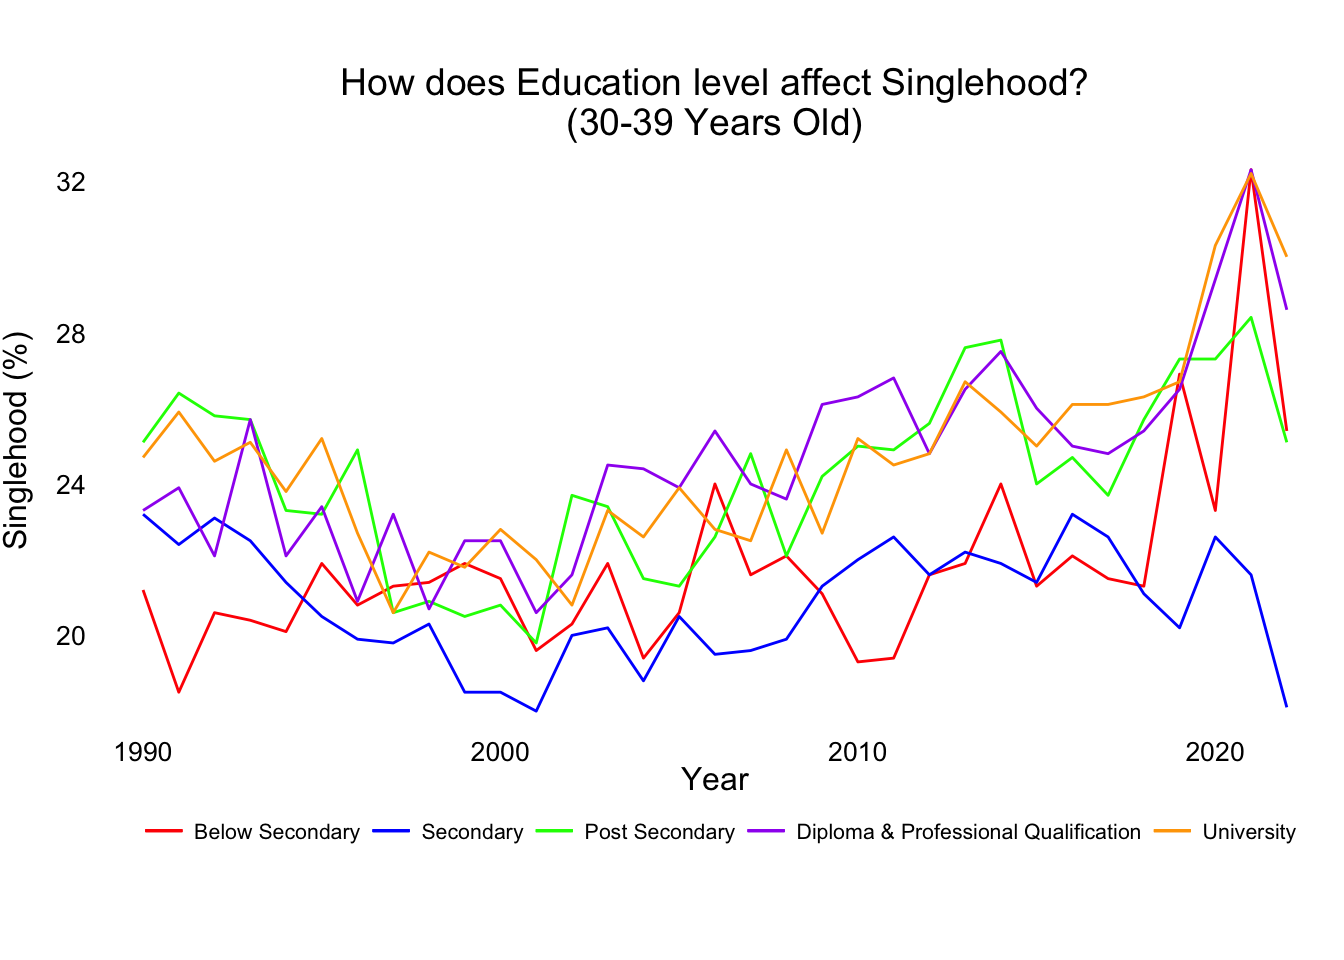
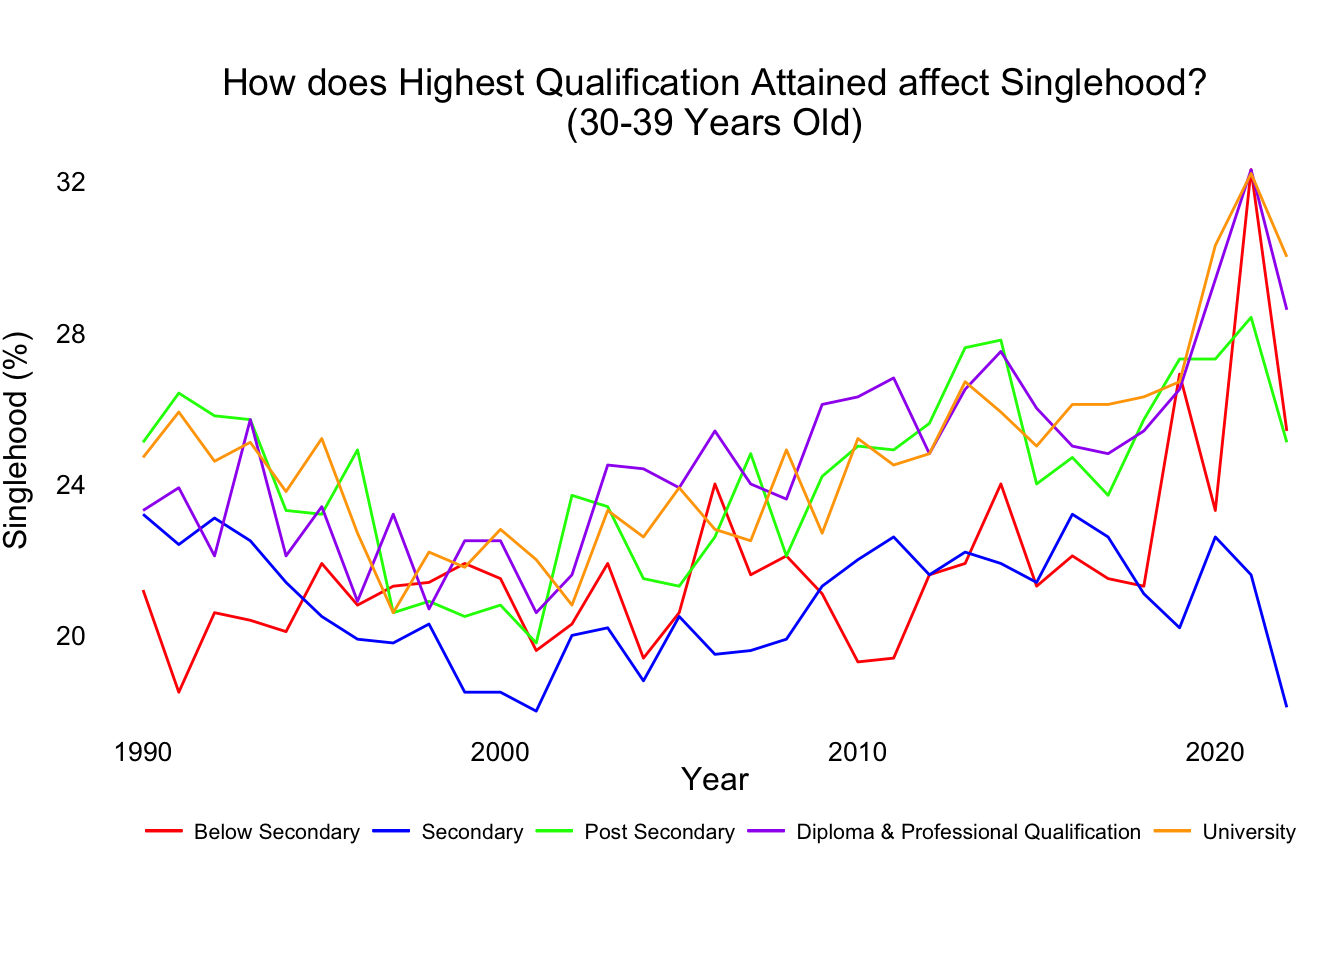
Webpage

Changed region(s): [[0.1562, 0.0625, 0.9062, 0.125]]

diff --git a/docs/Qualification.html b/docs/Qualification.html
@@ -85,7 +85,7 @@ ul.task-list li input[type="checkbox"] {
  <span class="menu-text">Datastory</span></a>
   </li>  
   <li class="nav-item">
-    <a class="nav-link active" href="./Qualification.html" rel="" target="" aria-current="page">
+    <a class="nav-link active" href="./qualification.html" rel="" target="" aria-current="page">
  <span class="menu-text">Qualification Attained VS Singlehood</span></a>
   </li>  
   <li class="nav-item">
@@ -112,7 +112,10 @@ ul.task-list li input[type="checkbox"] {
     <h2 id="toc-title">On this page</h2>
    
   <ul>
-  <li><a href="#does-highest-qualification-attained-affect-singlehood" id="toc-does-highest-qualification-attained-affect-singlehood" class="nav-link active" data-scroll-target="#does-highest-qualification-attained-affect-singlehood">Does highest qualification attained affect singlehood?</a></li>
+  <li><a href="#does-highest-qualification-attained-affect-singlehood" id="toc-does-highest-qualification-attained-affect-singlehood" class="nav-link active" data-scroll-target="#does-highest-qualification-attained-affect-singlehood">Does Highest Qualification Attained Affect Singlehood?</a></li>
+  <li><a href="#general-trend" id="toc-general-trend" class="nav-link" data-scroll-target="#general-trend">General Trend</a></li>
+  <li><a href="#comparison-between-highest-qualification-attained-and-singlehood" id="toc-comparison-between-highest-qualification-attained-and-singlehood" class="nav-link" data-scroll-target="#comparison-between-highest-qualification-attained-and-singlehood">Comparison between Highest Qualification Attained and Singlehood</a></li>
+  <li><a href="#conclusion" id="toc-conclusion" class="nav-link" data-scroll-target="#conclusion">Conclusion</a></li>
   </ul>
 </nav>
     </div>
@@ -137,34 +140,34 @@ ul.task-list li input[type="checkbox"] {
 </header>
 
 <section id="does-highest-qualification-attained-affect-singlehood" class="level2" style="color: #FE4164">
-<h2 style="color: #FE4164" class="anchored" data-anchor-id="does-highest-qualification-attained-affect-singlehood">Does highest qualification attained affect singlehood?</h2>
-<section id="placeholder-title" class="level4" style="color: black">
-<h4 style="color: black" class="anchored" data-anchor-id="placeholder-title">(placeholder) title</h4>
-<p>(placeholder) graph 1 Age VS Relationship Status</p>
-<p>(placeholder) graph 2 Highest Qual Attained VS Relationship Status</p>
-<p>To make the comparison clearer, I analyses the percentage of singles for the Secondary and University categories.</p>
-<div class="cell">
-<div class="cell-output-display">
-<p><img src="Qualification_files/figure-html/unnamed-chunk-1-1.png" class="img-fluid" width="672"></p>
-</div>
-</div>
-<p>We can see that those that fall under the University category have a higher percentage of singles as compared to Secondary.</p>
-<p>This code: clean data 3, 10 year window 2013-2022 30-39 yr old</p>
-<div class="cell">
-<div class="cell-output-display">
-<p><img src="Qualification_files/figure-html/unnamed-chunk-2-1.png" class="img-fluid" width="672"></p>
-</div>
-</div>
-<p>This code: clean data 4, 10 year window 2013-2022 40-49 yr old</p>
-<div class="cell">
-<div class="cell-output-display">
-<p><img src="Qualification_files/figure-html/unnamed-chunk-3-1.png" class="img-fluid" width="672"></p>
-</div>
-</div>
-<p>to edit: labels. change underscore to what i want <iframe height="600" width="100%" frameborder="no" src="https://iannnlee.shinyapps.io/IanShinyApp/"> </iframe></p>
-
-
+<h2 style="color: #FE4164" class="anchored" data-anchor-id="does-highest-qualification-attained-affect-singlehood">Does Highest Qualification Attained Affect Singlehood?</h2>
 </section>
+<section id="general-trend" class="level2" style="color: black">
+<h2 style="color: black" class="anchored" data-anchor-id="general-trend">General Trend</h2>
+<p>Firstly, we analyse how Highest Qualification Attained affects Singlehood in the 30-39 year old age group.</p>
+<div class="cell">
+<div class="cell-output-display">
+<p><img src="qualification_files/figure-html/unnamed-chunk-1-1.png" class="img-fluid" width="672"></p>
+</div>
+</div>
+<p>Next, we analyse how Highest Qualification Attained affects Singlehood in the 40-49 year old age group.</p>
+<div class="cell">
+<div class="cell-output-display">
+<p><img src="qualification_files/figure-html/unnamed-chunk-2-1.png" class="img-fluid" width="672"></p>
+</div>
+</div>
+</section>
+<section id="comparison-between-highest-qualification-attained-and-singlehood" class="level2">
+<h2 class="anchored" data-anchor-id="comparison-between-highest-qualification-attained-and-singlehood">Comparison between Highest Qualification Attained and Singlehood</h2>
+<iframe height="600" width="100%" frameborder="no" src="https://iannnlee.shinyapps.io/IanShinyApp/">
+</iframe>
+<p>(provide further explanation)</p>
+</section>
+<section id="conclusion" class="level2" style="color: #DE3163">
+<h2 style="color: #DE3163" class="anchored" data-anchor-id="conclusion">Conclusion</h2>
+<p>(provide further explanation)</p>
+
+
 </section>
 
 </main> <!-- /main -->

diff --git a/docs/age.html b/docs/age.html
@@ -85,7 +85,7 @@ ul.task-list li input[type="checkbox"] {
  <span class="menu-text">Datastory</span></a>
   </li>  
   <li class="nav-item">
-    <a class="nav-link" href="./Qualification.html" rel="" target="">
+    <a class="nav-link" href="./qualification.html" rel="" target="">
  <span class="menu-text">Qualification Attained VS Singlehood</span></a>
   </li>  
   <li class="nav-item">
@@ -112,7 +112,12 @@ ul.task-list li input[type="checkbox"] {
     <h2 id="toc-title">On this page</h2>
    
   <ul>
-  <li><a href="#does-age-affect-singlehood" id="toc-does-age-affect-singlehood" class="nav-link active" data-scroll-target="#does-age-affect-singlehood">Does age affect singlehood?</a></li>
+  <li><a href="#does-age-affect-singlehood" id="toc-does-age-affect-singlehood" class="nav-link active" data-scroll-target="#does-age-affect-singlehood">Does age affect singlehood?</a>
+  <ul class="collapse">
+  <li><a href="#general-trend" id="toc-general-trend" class="nav-link" data-scroll-target="#general-trend">General Trend</a></li>
+  <li><a href="#singlehood-by-age-group" id="toc-singlehood-by-age-group" class="nav-link" data-scroll-target="#singlehood-by-age-group">Singlehood by Age Group</a></li>
+  <li><a href="#conclusion" id="toc-conclusion" class="nav-link" data-scroll-target="#conclusion">Conclusion</a></li>
+  </ul></li>
   </ul>
 </nav>
     </div>
@@ -136,11 +141,11 @@ ul.task-list li input[type="checkbox"] {
 
 </header>
 
-<section id="does-age-affect-singlehood" class="level2" style="color: #FE4164">
-<h2 style="color: #FE4164" class="anchored" data-anchor-id="does-age-affect-singlehood">Does age affect singlehood?</h2>
-<section id="placeholder" class="level4" style="color: black">
-<h4 style="color: black" class="anchored" data-anchor-id="placeholder">(placeholder)</h4>
-<p>Now, we look at the status of the population. How many people are single? The graphs below provides further insight.</p>
+<section id="does-age-affect-singlehood" class="level1" style="color: #FE4164">
+<h1 style="color: #FE4164">Does age affect singlehood?</h1>
+<section id="general-trend" class="level2" style="color: black">
+<h2 style="color: black" class="anchored" data-anchor-id="general-trend">General Trend</h2>
+<p>Now, we explore at the marriage status of the population. <br> How many people are <strong>single</strong>? <br> Is <strong>AGE</strong> a potential factor that affects Singlehood? <br> The graphs below provides further insight.</p>
 <div class="cell">
 <div class="cell-output-display">
 <p><img src="age_files/figure-html/unnamed-chunk-1-1.png" class="img-fluid" width="672"></p>
@@ -152,11 +157,13 @@ ul.task-list li input[type="checkbox"] {
 </div>
 </div>
 </section>
-<section id="placeholder-1" class="level4" style="color: black">
-<h4 style="color: black" class="anchored" data-anchor-id="placeholder-1">(placeholder)</h4>
-<iframe height="500" width="100%" frameborder="no" src="https://iannnlee.shinyapps.io/IanShinyApp2/">
-</iframe>
-<p>For “Single by Age Group” comparison, the data were from the following years: <br> 10 Year Span: 2013-2022 <br> 5 Year Span: 2018-2022 <br> 2 Year Span: 2021-2022</p>
+<section id="singlehood-by-age-group" class="level2" style="color: black">
+<h2 style="color: black" class="anchored" data-anchor-id="singlehood-by-age-group">Singlehood by Age Group</h2>
+<p>For “Singlehood by Age Group” comparison, the data were from the following years: <br> 10 Year Span: 2013-2022 <br> 5 Year Span: 2018-2022 <br> 2 Year Span: 2021-2022 <br> <em><em>(click below to see the averages of the 2 different age groups)</em></em> <iframe height="500" width="100%" frameborder="no" src="https://iannnlee.shinyapps.io/IanShinyApp2/"> </iframe></p>
+</section>
+<section id="conclusion" class="level2" style="color: #DE3163">
+<h2 style="color: #DE3163" class="anchored" data-anchor-id="conclusion">Conclusion</h2>
+<p>Age is also a factor that affects Singlehood. <br> The results have shown that as Age increases, the percentage of Singles in the population decreases. <br> This trend is to be expected as more people will get married as they become older, with increased financial stability and increasing societal pressure to get married.</p>
 
 
 </section>

diff --git a/docs/datastory.html b/docs/datastory.html
@@ -7,7 +7,7 @@
 <meta name="viewport" content="width=device-width, initial-scale=1.0, user-scalable=yes">
 
 
-<title>NM2207 Project: Ian’s Website - About this Project</title>
+<title>NM2207 Project: Ian’s Website - About My Project</title>
 <style>
 code{white-space: pre-wrap;}
 span.smallcaps{font-variant: small-caps;}
@@ -85,7 +85,7 @@ ul.task-list li input[type="checkbox"] {
  <span class="menu-text">Datastory</span></a>
   </li>  
   <li class="nav-item">
-    <a class="nav-link" href="./Qualification.html" rel="" target="">
+    <a class="nav-link" href="./qualification.html" rel="" target="">
  <span class="menu-text">Qualification Attained VS Singlehood</span></a>
   </li>  
   <li class="nav-item">
@@ -121,7 +121,7 @@ ul.task-list li input[type="checkbox"] {
 
 <header id="title-block-header" class="quarto-title-block default">
 <div class="quarto-title">
-<h1 class="title">About this Project</h1>
+<h1 class="title">About My Project</h1>
 </div>
 
 
@@ -140,6 +140,7 @@ ul.task-list li input[type="checkbox"] {
 <section id="why-are-singaporeans-single" class="level2" style="color: deeppink">
 <h2 style="color: deeppink" class="anchored" data-anchor-id="why-are-singaporeans-single">Why are Singaporeans single?</h2>
 <p>This project aims to…</p>
+<p>Curious to find out more? Click the picture below!</p>
 <section id="general-trend-from-1990-2022" class="level4" style="color: black">
 <h4 style="color: black" class="anchored" data-anchor-id="general-trend-from-1990-2022">General Trend from 1990-2022</h4>
 <p>This graph represents the percentage of population Single, among those aged 30-39 years old. The general trend for 40-49 years old is similar to the graph below, but with a slightly lower percentage of singles across the board.</p>

diff --git a/docs/index.html b/docs/index.html
@@ -85,7 +85,7 @@ ul.task-list li input[type="checkbox"] {
  <span class="menu-text">Datastory</span></a>
   </li>  
   <li class="nav-item">
-    <a class="nav-link" href="./Qualification.html" rel="" target="">
+    <a class="nav-link" href="./qualification.html" rel="" target="">
  <span class="menu-text">Qualification Attained VS Singlehood</span></a>
   </li>  
   <li class="nav-item">
@@ -149,7 +149,7 @@ ul.task-list li input[type="checkbox"] {
 <figcaption class="figure-caption"><strong><em>Virtual hug for you! I hope you are having a great day!!!</em></strong></figcaption>
 </figure>
 </div>
-<p>Hello, I’m Ian! I’m currently in my third year as a Business Administration student with a specialisation in finance. I’m excited to be taking NM2207 in Semester 1 of the academic year 2023/2024.</p>
+<p>Hello, I’m Ian! <br> I’m currently in my third year as a Business Administration student with a specialisation in finance. I’m excited to be taking NM2207 in Semester 1 of the academic year 2023/2024.</p>
 <p>In my free time, I’m an avid sports enthusiast, particularly passionate about basketball and football. I proudly support the LA Lakers and enjoy watching their games. I used to enjoy playing basketball as well but I got lazy :)</p>
 <p>Link to my Github: <a href="https://github.com/iannnlee/nm2207" class="uri">https://github.com/iannnlee/nm2207</a></p>
 <p><a href="https://cdn.vox-cdn.com/thumbor/Si2spWe-6jYnWh8roDPVRV7izC4=/0x0:1192x795/1400x788/filters:focal(596x398:597x399)/cdn.vox-cdn.com/uploads/chorus_asset/file/22312759/rickroll_4k.jpg" target="_blank"> <img src="duckdrawing.jpeg" class="img-fluid" style="color: pink" data-fig-align="center" width="1080"> </a></p>
